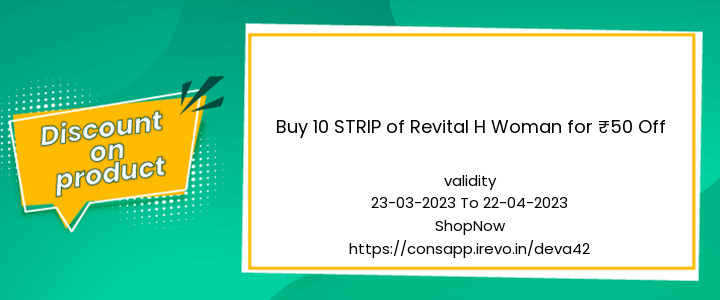
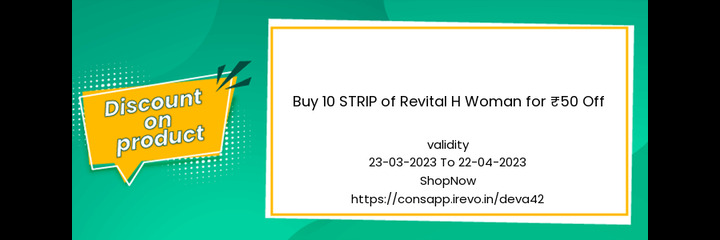
second file change

diff --git a/src/components/SecondFile.js b/src/components/SecondFile.js
@@ -1,6 +1,6 @@
 import React from 'react'
 import logo from '../images/vector.jpg'
-import offer from '../images/offer.png'
+import offer from '../images/offer.jpg'
 import vector from '../images/vector2.jpg'
 function SecondFile() {
     
